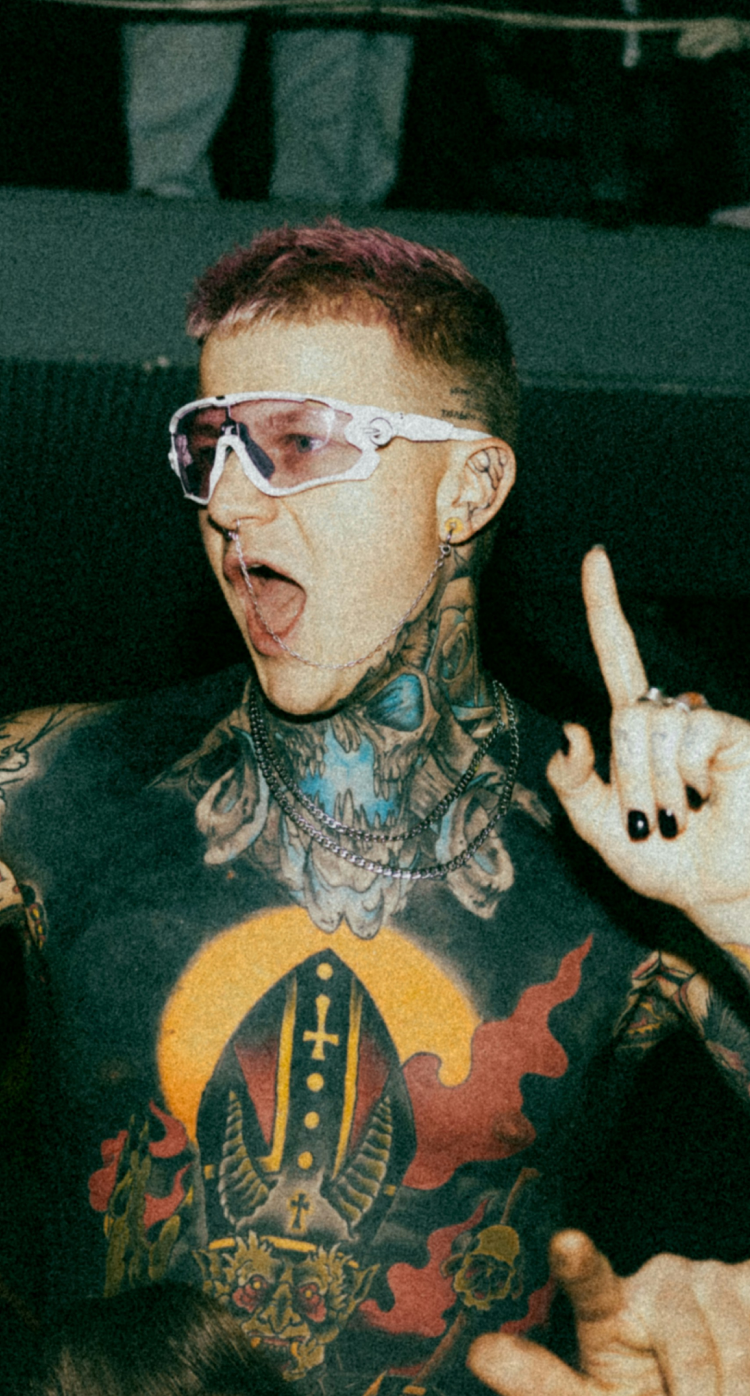
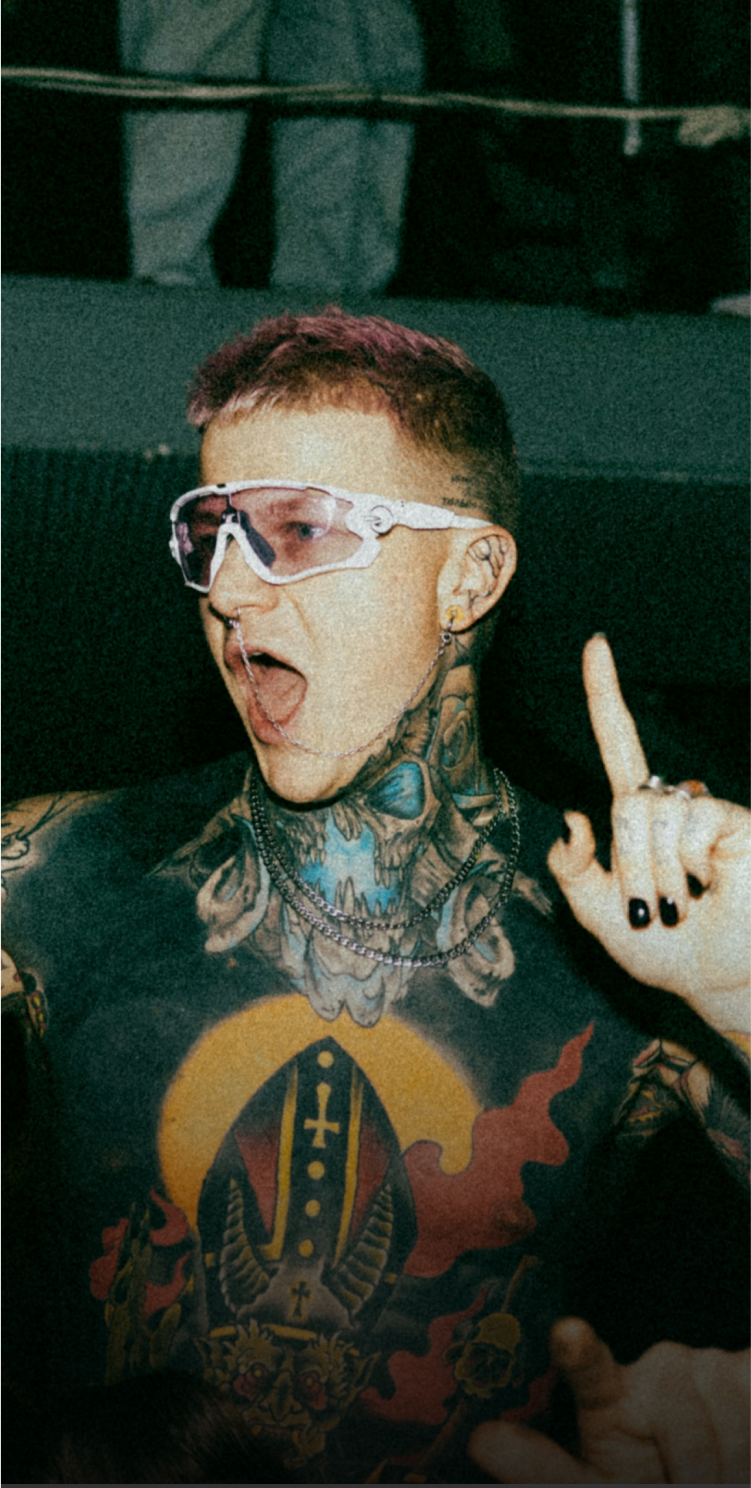
bugFix-12820/home-page-design-issues

diff --git a/src/styles/main.css b/src/styles/main.css
@@ -9,7 +9,7 @@
     border-radius: 0px;
     font-size: 16px;
     line-height: 20px;
-    font-weight: 600;
+    font-weight: 700;
     text-align: center;
     border: 0;
     background: var(--black);
@@ -87,7 +87,7 @@
     height: 100%;
     position: relative;
     transition-property: transform;
-    min-height: 670px;
+    min-height: 714px;
     padding: 0;
 }
 
@@ -463,6 +463,10 @@ ul.custom_list_view li img {
   object-position: bottom;
 }
 
+.main_slider.slider_rectangle_shape .custom_slider .slick-track .slick-slide .listing_gridItem .listing_grid_img_col img {
+  aspect-ratio: 7 / 8;
+  height: auto !important;
+}
 /* responsive */
 @media only screen and (min-device-width: 768px) and (max-device-width:991px) and (orientation:portrait) {
   .klarna_payment_img_col {
@@ -479,9 +483,9 @@ ul.custom_list_view li img {
   }  
 }
 @media screen and (min-width: 1480px) {
-  .banner_col {       
+ /* .banner_col {       
     min-height: 76vh;
-  }
+  }*/
 }
 @media screen and (min-width: 768px) and (max-width: 991.98px) {
   .klarna_works_block {
@@ -530,9 +534,14 @@ ul.custom_list_view li img {
   }
 }
 @media screen and (max-width: 767.98px) {  
-  .banner_col {       
+  /*.banner_col {       
     min-height: 698px;
-  }      
+  }   */
+  .banner_mob_fit {
+    height: calc(100vh - 110px) !important;
+    max-height: 742px !important;
+
+  }
   .banner_caption {
     align-items: flex-end;
     padding: 0 15px 58px 15px;
@@ -652,12 +661,12 @@ ul.custom_list_view li img {
   .mob_slider_left_none .custom_slider .slick-track .slick-slide .listing_gridItem a {
     padding-right: 0px;
   }
-  .mob_slider_left_none .custom_slider .slick-track .slick-slide:first-child.slick-active.slick-current .listing_gridItem {
+  /*.mob_slider_left_none .custom_slider .slick-track .slick-slide:first-child.slick-active.slick-current .listing_gridItem {
     padding-left: 15px!important;
   }
   .main_slider .custom_slider.custom_m_single_slider .slick-slide:first-child.slick-active.slick-current .listing_gridItem {
     padding-left: 0!important;
-  }
+  }*/
   .main_slider .custom_slider.custom_m_single_slider .slick-slide .listing_gridItem {
     padding-right: 0;
   }

diff --git a/src/styles/globals.css b/src/styles/globals.css
@@ -210,21 +210,29 @@ header.header_wrapper {
   left: 0;
   right: 0;
   z-index: 1;
-  border-bottom: 1px solid #fff;
 }
 header.header_wrapper:after {
-  content: "";
-  /* background: linear-gradient(180deg, #FFF 12.03%, rgba(255, 255, 255, 0.00) 87.59%); */
+  content: ""; 
   position: absolute;
   top: 0;
   height: 100%;
   width: 100%;
   z-index: -1;
 }
-
+header.header_wrapper:before {
+  content: "";
+  width: 100%;
+  background-color: #fff;
+  height: 1px;
+  position: absolute;
+  top: inherit;
+  bottom: 0;
+  opacity: 0.4;
+}
 header.header_wrapper.fixed:after {
   background: #fff;
 }
+
 header.fixed {
   position: fixed;
   top: 0;
@@ -234,6 +242,9 @@ header.fixed {
   transform: translateY(0);
   animation: fadeIn 0.1s ease-in-out forwards;
   border-bottom: 0;
+}
+header.fixed:before {
+  display: none;
 }
 
 header.fixed .sticky-menu{
@@ -6102,6 +6113,9 @@ ul.download_qr_mob_app .download_qr_mob_app_title {
     margin-top: 10px;
     margin-bottom: 20px;
   }
+  .footer .footer_block .footer_logo a img {
+    width: 90px;
+  }
 
   .footer .footer_block ul.footer_list {
     margin-top: 25px;
@@ -7398,7 +7412,7 @@ ul.download_qr_mob_app .download_qr_mob_app_title {
   }
   .header_cookies .header_cookie_txt .header_cookie_mob a {
     font-size: 16px;    
-  }
+  } 
 
   .text_box_wrap.right .m_switcher .img_box_wrap {
     order: 1;

diff --git a/src/components/banners/Banner.jsx b/src/components/banners/Banner.jsx
@@ -29,8 +29,8 @@ export default function Banner({
       <section className="full_block_banner">
         <div class="row g-0">
           <div class="col-md-12">
-            <div className="banner_block m_min_h_698">
-              <div className="banner_col banner_grad_lft_mob_btm">
+            <div className="banner_block banner_mob_fit">
+              <div className="banner_col m_min_h_inherit">
                 <div className="banner_img_wrap">
                   <Image
                     src={bannerImage}
@@ -47,13 +47,13 @@ export default function Banner({
                     placeholder="blur"
                     blurDataURL={BLUR_URL}
                     fill
-                    className="object_fit_cover object_center_top desk_hidden"
+                    className="object_fit_cover desk_hidden"
                   />
                 </div>
                 <div className="banner_caption">
                   <div className="d_inline_block">
                     {isBadge && (
-                      <div className="klarna_badge">
+                      <div className="klarna_badge mb_8 m_mb_15">
                         <Image
                           src={badge}
                           alt="klarna"

diff --git a/src/components/carousel/CaptionImageCarosuel.jsx b/src/components/carousel/CaptionImageCarosuel.jsx
@@ -40,7 +40,7 @@ export default function CaptionImageCarosuel({title, subTitle, description, data
 
             <div
               className={
-                "mt_20 mb_40 m_mt_5 m_mb_0 main_slider mob_slider_left_none slider_nav_arrows"
+                "mt_20 mb_40 m_mt_5 m_mb_0 main_slider mob_slider_left_none slider_nav_arrows slider_rectangle_shape"
               }
             >
             {data.length !== 0 ? (
@@ -48,7 +48,7 @@ export default function CaptionImageCarosuel({title, subTitle, description, data
                   <Slider
                     ref={sliderRef}
                     {...sliderSettings}
-                    className="m_xs_ml_n_15 m_xs_mr_n_15 custom_slider"
+                    className="m_xs_mr_n_15 custom_slider"
                   >
                     {
                       data.map((el, index) => (

diff --git a/src/components/styleDetail/exploreTattoos.jsx b/src/components/styleDetail/exploreTattoos.jsx
@@ -81,7 +81,7 @@ export default function ExploreTattoos({ data, styleName, slug }) {
                   <Slider
                     ref={sliderRef}
                     {...sliderSettings}
-                    className="custom_slick_slider custom_slick_container m_xs_ml_n_15 m_xs_mr_n_15"
+                    className="custom_slick_slider custom_slick_container m_xs_mr_n_15"
                   >
                     {data &&
                       data.map((el, index) => (

diff --git a/src/components/carousel/ImageCarosuel.jsx b/src/components/carousel/ImageCarosuel.jsx
@@ -49,7 +49,7 @@ export default function ImageCarousel({ title, subTitle, description, data }) {
                   <Slider
                     ref={sliderRef}
                     {...sliderSettings}
-                    className="m_xs_ml_n_15 m_xs_mr_n_15 custom_slider custom_square_slider"
+                    className="m_xs_mr_n_15 custom_slider custom_square_slider"
                   >
                     {data.map((el, index) => (
                       <div

diff --git a/src/components/styleDetail/artistSlider.jsx b/src/components/styleDetail/artistSlider.jsx
@@ -74,7 +74,7 @@ export default function ArtistSlider({ title, content, data, slug }) {
                   <Slider
                     {...sliderSettings}
                     ref={sliderRef}
-                    className="custom_content_slick_slider m_xs_ml_n_15 m_xs_mr_n_15"
+                    className="custom_content_slick_slider m_xs_mr_n_15"
                   >
                     {data &&
                       data.map((el, index) => (

diff --git a/src/components/styleDetail/exploreStyles.jsx b/src/components/styleDetail/exploreStyles.jsx
@@ -52,7 +52,7 @@ export default function ExploreStyles({ data }) {
                 <Slider
                   {...sliderSettings}
                   ref={sliderRef}
-                  className="custom_slick_slider custom_slick_container m_xs_ml_n_15 m_xs_mr_n_15"
+                  className="custom_slick_slider custom_slick_container m_xs_mr_n_15"
                 >
                   {data &&
                     data.map((el, index) => (

diff --git a/src/components/carousel/TextsCarosuel.jsx b/src/components/carousel/TextsCarosuel.jsx
@@ -55,7 +55,7 @@ export default function TextsCarosuel({title ,subTitle ,description,data}){
                     <Slider
                       ref={sliderRef}
                       {...sliderSettings}
-                      className="m_xs_ml_n_15 m_xs_mr_n_15 custom_slider"
+                      className="m_xs_mr_n_15 custom_slider"
                     >
                       
                         {data.map((el, index) => (

diff --git a/src/components/tattooIdea/TattooIdea.jsx b/src/components/tattooIdea/TattooIdea.jsx
@@ -70,7 +70,7 @@ export default function TattooIdea() {
             </ul>
             <Link
               href={`/${router.locale}/createRequest`}  onClick={()=>setPathname(router.pathname)}
-              className="button_primary w_min_230 m_w_100pc"
+              className="button_primary w_min_230 m_w_100pc m_mt_10"
             >
               {t("common:homePage.CreateATattooRequest")}
             </Link>

diff --git a/src/pages/klarna/index.jsx b/src/pages/klarna/index.jsx
@@ -328,7 +328,7 @@ function KlarnaNew({ }) {
                   <Link
                     href={`/${router.locale}/createRequest`}
                     onClick={() => setPathname(router.pathname)}
-                    className="button_primary w_min_245"
+                    className="button_primary"
                   >
                     {t("common:homePage.CreateATattooRequest")}
                   </Link>
